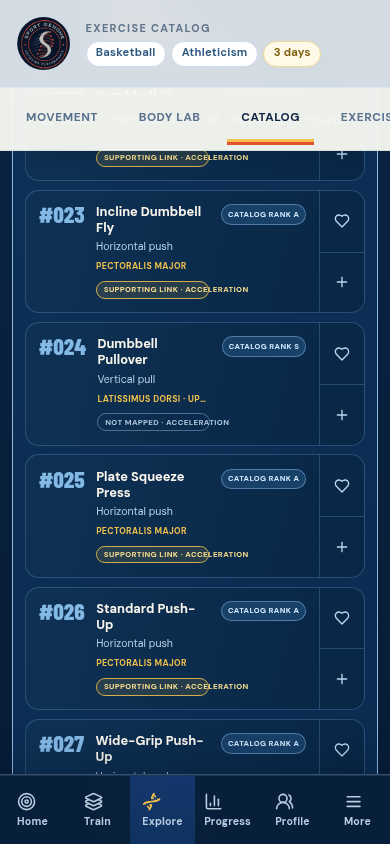
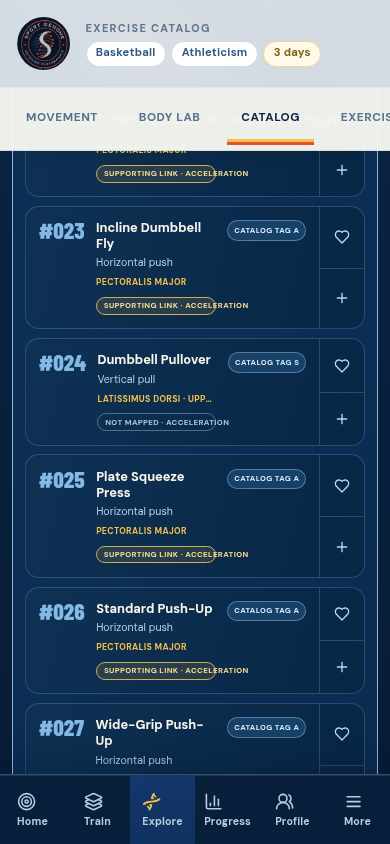
Checkpoint: Publish the catalog terminology correction that reserves rank language for properly source-qualified population comparisons. The mobile list now labels its configured, taxonomy-based grade as a Catalog tag and exposes a tooltip stating that it is not a population rank or strength measure

diff --git a/client/src/components/CatalogDiscoveryPanel.tsx b/client/src/components/CatalogDiscoveryPanel.tsx
@@ -56,7 +56,7 @@ export function CatalogDiscoveryPanel({ exercises, filters, favoriteIds, onFilte
         const isFavorite = favoriteIds.has(exercise.id);
         const connection = connectionForExercise?.(exercise);
         return <article key={exercise.id} className="catalog-discovery-card">
-          <button onClick={() => onInspect(exercise)} className="catalog-discovery-card-copy" aria-label={`Inspect ${exercise.name}`}><span className="catalog-discovery-index">#{String(exercise.id).padStart(3, "0")}</span><span><strong>{exercise.name}</strong><small>{exercise.movement}</small><em>{exercise.primaryMuscles.map((muscle) => muscleLabels[muscle] || muscle).join(" · ")}</em>{connection ? <b className={`catalog-action-link catalog-action-link-${connection.label.toLowerCase().replace(/\s+/g, "-")}`} title={connection.detail}>{connection.label}{selectedActionLabel ? ` · ${selectedActionLabel}` : ""}</b> : null}</span><span className="catalog-discovery-tier">Catalog rank {exercise.muscleGrade}</span></button>
+          <button onClick={() => onInspect(exercise)} className="catalog-discovery-card-copy" aria-label={`Inspect ${exercise.name}`}><span className="catalog-discovery-index">#{String(exercise.id).padStart(3, "0")}</span><span><strong>{exercise.name}</strong><small>{exercise.movement}</small><em>{exercise.primaryMuscles.map((muscle) => muscleLabels[muscle] || muscle).join(" · ")}</em>{connection ? <b className={`catalog-action-link catalog-action-link-${connection.label.toLowerCase().replace(/\s+/g, "-")}`} title={connection.detail}>{connection.label}{selectedActionLabel ? ` · ${selectedActionLabel}` : ""}</b> : null}</span><span className="catalog-discovery-tier" title="Configured catalog classification; not a population rank or strength measurement.">Catalog tag {exercise.muscleGrade}</span></button>
           <div className="catalog-discovery-actions"><button onClick={() => onToggleFavorite(exercise)} className={isFavorite ? "catalog-favorite-on" : ""} aria-label={`${isFavorite ? "Remove" : "Save"} ${exercise.name} ${isFavorite ? "from" : "to"} favorites`}><Heart className="h-4 w-4" fill={isFavorite ? "currentColor" : "none"} /></button><button onClick={() => onAdd(exercise)} aria-label={`Add ${exercise.name} to workout`}><Plus className="h-4 w-4" /></button></div>
         </article>;
       })}

diff --git a/client/src/components/CatalogDiscoveryPanel.traceability.test.ts b/client/src/components/CatalogDiscoveryPanel.traceability.test.ts
@@ -5,9 +5,10 @@ import { resolve } from "node:path";
 const component = readFileSync(resolve(process.cwd(), "client/src/components/CatalogDiscoveryPanel.tsx"), "utf8");
 
 describe("Catalog Discovery traceability presentation", () => {
-  it("derives its visible catalog total and frames grade output as a catalog rank", () => {
+  it("derives its visible catalog total and labels configured grades without implying a population rank", () => {
     expect(component).toContain("`All ${exercises.length} exercises`");
-    expect(component).toContain("Catalog rank {exercise.muscleGrade}");
+    expect(component).toContain("Catalog tag {exercise.muscleGrade}");
+    expect(component).toContain("Configured catalog classification; not a population rank or strength measurement.");
     expect(component).not.toContain("All 400 exercises");
   });
 

diff --git a/research/visual_validation_2026-08-28_rank_and_boot.md b/research/visual_validation_2026-08-28_rank_and_boot.md
@@ -33,3 +33,5 @@ The populated 390×844 action-card capture confirms that the duplicate `Start se
 ## Exercise-to-action connection indicators
 
 The populated 390×844 catalog view shows the evidence-bounded action signal directly beneath each exercise’s primary-muscle line. `Supporting link · Acceleration` is readable in gold, while `Not mapped · Acceleration` is visibly muted and explicit; neither is presented as a sport-performance rating. The selected active action did not yield an on-screen Direct support row in the initial catalog page, but deterministic classifier regression coverage verifies the Direct support label only when an exercise is named in the selected action record.
+
+The refreshed 390×844 catalog capture confirms grade pills now read `Catalog tag A`, avoiding the ambiguous population-comparison language previously used for the configured catalog classification. The evidence-qualified source-sample rank remains reserved for the strict Piper record path.
